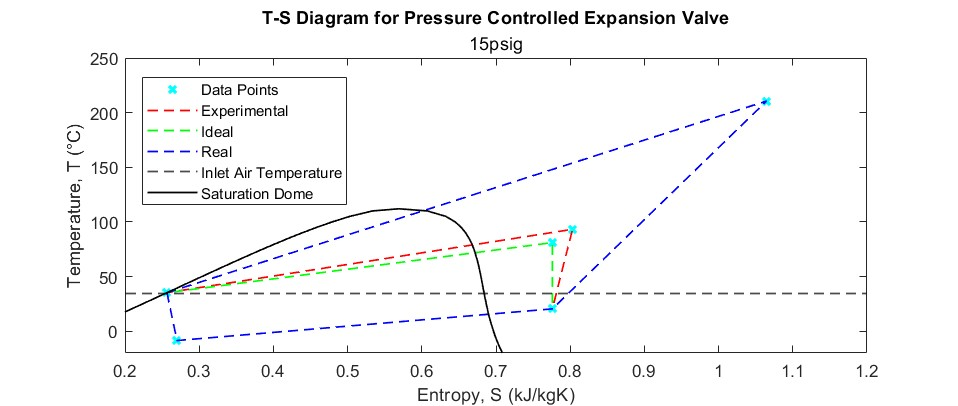
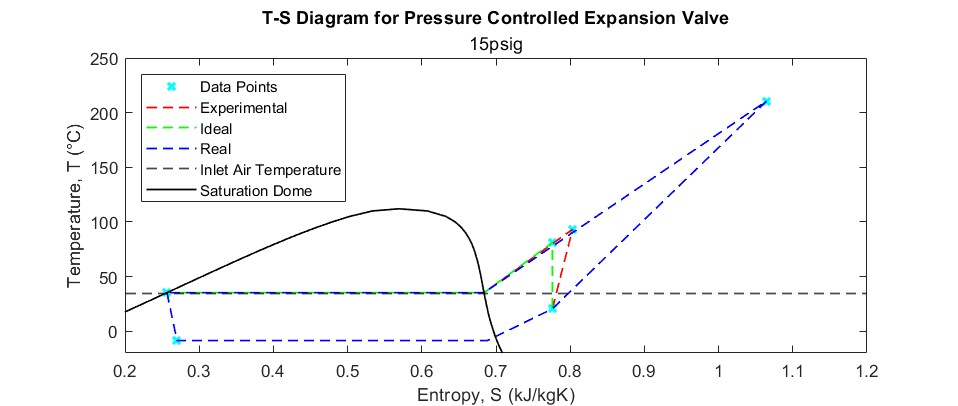
hopefully final changes
final plots are done

diff --git a/Refrigeration/main.m b/Refrigeration/main.m
@@ -400,6 +400,20 @@ function plot_quad(n_x, n_y, points)
     end
 end
 
+function plot_hex(n_x, n_y, points, properties)
+    % create the dotted lines for each of the functions
+    x = points(:,n_x);
+    y = points(:,n_y);
+    color = ['r', 'g', 'b'];
+    for n = 1:1:3
+        temp_prop3 = approxSatProp(points(3,1), properties);
+        temp_prop1 = approxSatProp(points(1,1), properties);
+        x_points = [x(1:2); temp_prop3(7); x(3); x(3+n); temp_prop1(7); x(1)];
+        y_points = [y(1:2); y(2); y(3); y(3+n); y(1); y(1)];
+        plot(x_points, y_points, '--', 'color', color(n), 'linewidth', 1)
+    end
+end
+
 function plot_hS(n, points, properties)
     figure(n)
     plot(points(:,4), points(:,3), 'x', 'color', 'c', 'linewidth', 2)
@@ -414,7 +428,7 @@ function plot_TS(n, points, properties, other_data)
     figure(n)
     plot(points(:,4), points(:,1), 'x', 'color', 'c', 'linewidth', 2)
     hold on
-    plot_quad(4, 1, points)
+    plot_hex(4, 1, points, properties)
     yline(other_data(12), '--', 'color', 'k', 'linewidth', 1)
     plot(properties(:,6), properties(:,1), 'k', 'linewidth', 1)
     plot(properties(:,7), properties(:,1), 'k', 'linewidth', 1)
